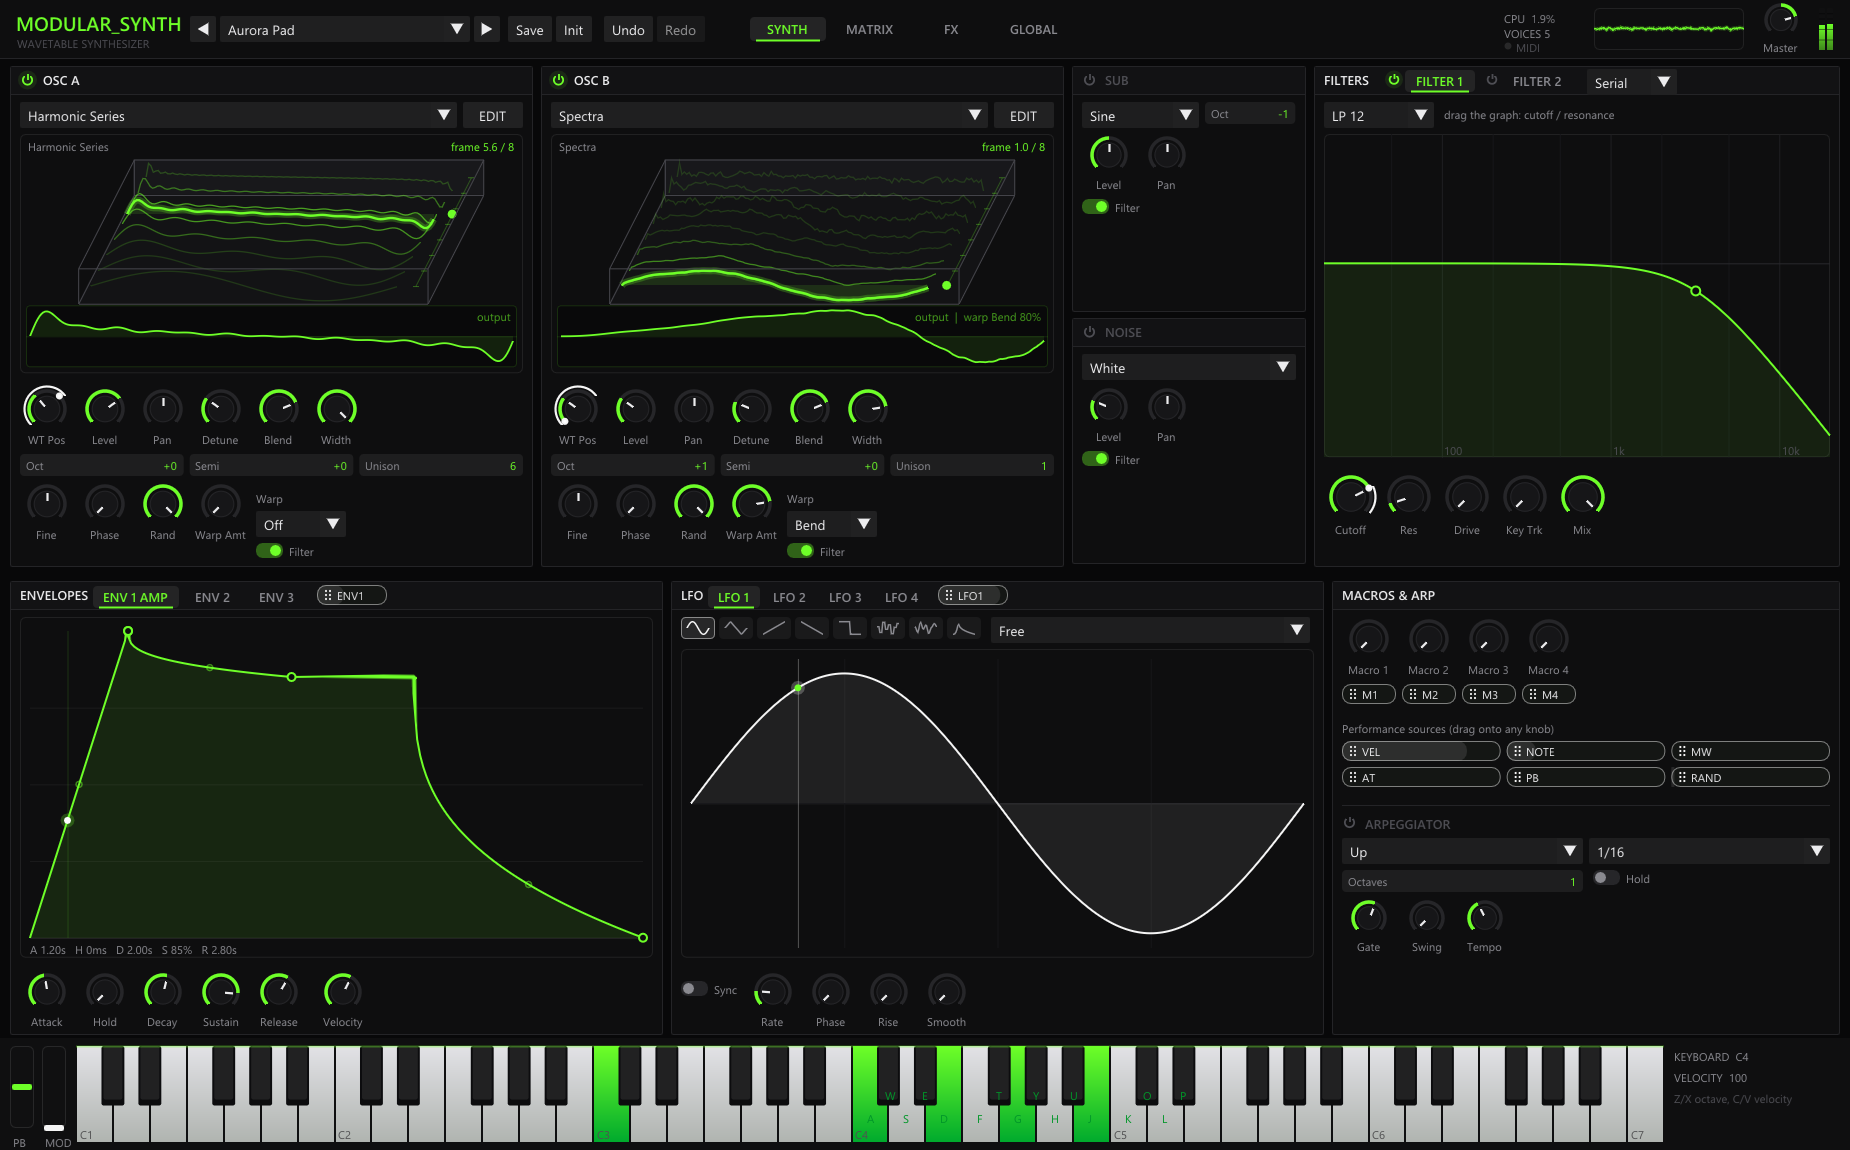
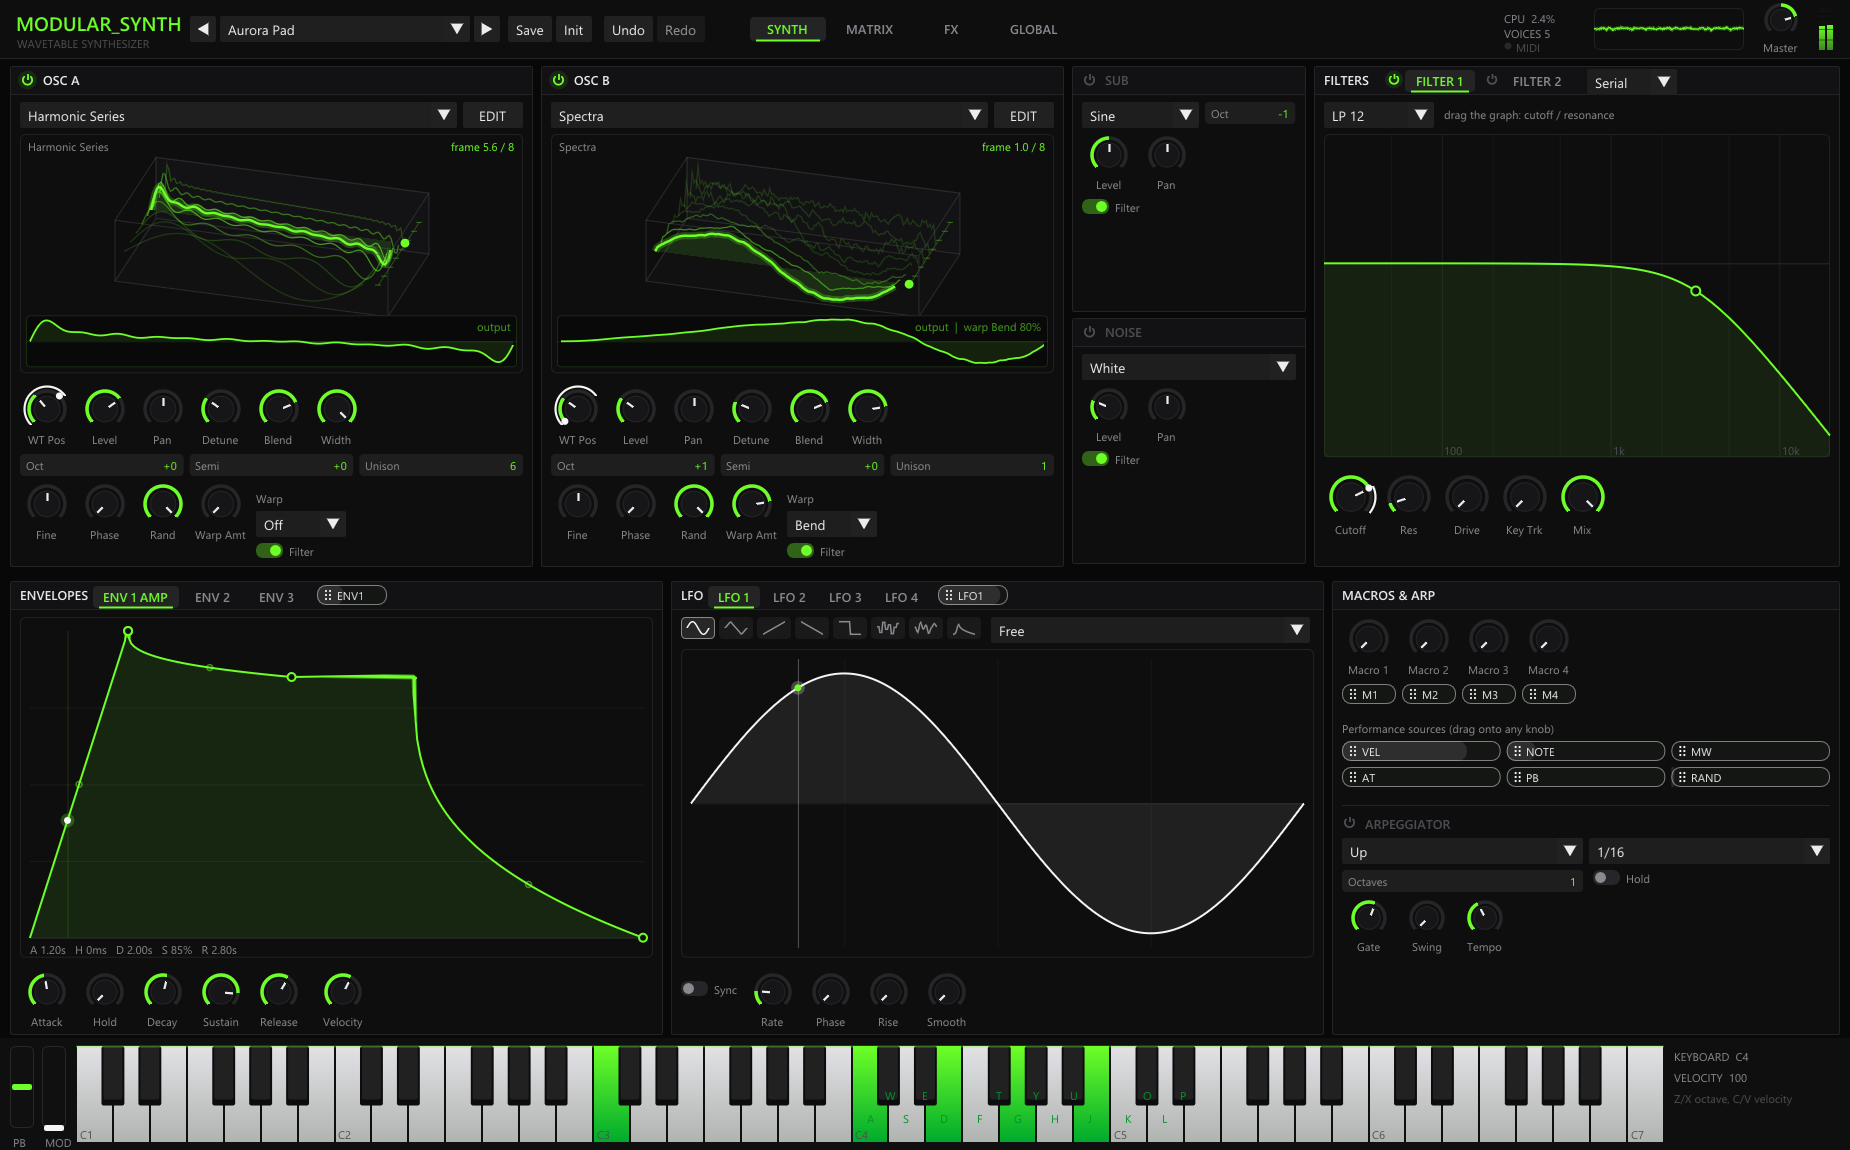
Wavetable view: taller waves, corner-facing angle, half-opacity box
The projection is fitted to the view so the box always fills it; drag
left/right turns the stack, up/down changes the depth.

Changed region(s): [[0.3081, 0.1522, 0.5854, 0.3348], [0.0308, 0.1522, 0.2773, 0.3043]]

diff --git a/app/ui/Views.cpp b/app/ui/Views.cpp
@@ -47,7 +47,8 @@ struct WtCache {
 };
 WtCache gCache[3];
 
-struct WtViewState { float yaw = 0.45f, pitch = 1.1f; bool flat = false; };
+// zx/zy: screen direction of the depth axis; turn: rotation of the waveform axis
+struct WtViewState { float zx = 0.34f, zy = 0.52f, turn = 0.13f; bool flat = false; };
 WtViewState gView[3];
 
 void buildCache(WtCache& c, const WavetableSet* wt)
@@ -100,8 +101,8 @@ void WavetableView(UiState& ui, int osc, ImVec2 size, const WavetableSet* overri
     int vi = overrideTable ? 2 : osc;
     WtViewState& vs = gView[vi];
     if (ImGui::IsItemActive() && ImGui::IsMouseDragging(ImGuiMouseButton_Left, 1.0f)) {
-        vs.yaw = std::clamp(vs.yaw + ImGui::GetIO().MouseDelta.x * 0.008f, -1.4f, 1.4f);
-        vs.pitch = std::clamp(vs.pitch + ImGui::GetIO().MouseDelta.y * 0.006f, 0.25f, 1.35f);
+        vs.turn = std::clamp(vs.turn + ImGui::GetIO().MouseDelta.x * 0.004f, -0.6f, 0.6f);
+        vs.zy = std::clamp(vs.zy + ImGui::GetIO().MouseDelta.y * 0.004f, 0.3f, 1.1f);
     }
     if (ImGui::IsItemHovered() && ImGui::IsMouseDoubleClicked(ImGuiMouseButton_Left)) vs.flat = !vs.flat;
     if (ImGui::IsItemHovered() && !ImGui::IsItemActive() && ImGui::GetCurrentContext()->HoveredIdTimer > 0.8f)
@@ -129,7 +130,7 @@ void WavetableView(UiState& ui, int osc, ImVec2 size, const WavetableSet* overri
                          : ui.s.params.value(amtP);
 
     const float W = size.x;
-    const float stripH = vs.flat ? size.y - 22.0f : std::floor(size.y * 0.26f);
+    const float stripH = vs.flat ? size.y - 22.0f : std::floor(size.y * 0.22f);
     const float stackH = vs.flat ? 0.0f : size.y - stripH - 22.0f;
     const ImU32 green = theme::accent;
 
@@ -145,11 +146,24 @@ void WavetableView(UiState& ui, int osc, ImVec2 size, const WavetableSet* overri
     // ---- 3D stack ----
     if (!vs.flat) {
         const float top = a.y + 20.0f, H = stackH;
-        const float dx = W * 0.22f * (vs.yaw / 1.4f) + W * 0.04f;
-        const float dy = H * 0.86f * (vs.pitch / 1.35f);
-        const float sx = W * 0.36f - std::fabs(dx) * 0.5f, ampY = H * 0.095f;
-        const ImVec2 origin(a.x + W * 0.5f - dx * 0.5f, top + H * 0.5f + dy * 0.5f);
-        auto project = [&](float x, float z, float y) { return ImVec2(origin.x + x * sx + z * dx, origin.y - y * ampY - z * dy); };
+        const float bx0 = -1.08f, bx1 = 1.2f, by0 = -1.2f, by1 = 1.2f;   // box extents
+
+        // Model space: x along the waveform (turned so the front corner faces the
+        // viewer), z into the depth, y = amplitude. Scale and offset are fitted so
+        // the whole box always fills the area.
+        const float amp = 0.21f;
+        const ImVec2 X(std::cos(vs.turn), std::sin(vs.turn)), Z(vs.zx, -vs.zy);
+        auto model = [&](float x, float z, float y) { return ImVec2(x * X.x + z * Z.x, x * X.y + z * Z.y - y * amp); };
+        float mnx = 1e9f, mny = 1e9f, mxx = -1e9f, mxy = -1e9f;
+        for (float x : { bx0, bx1 }) for (float z : { 0.0f, 1.0f }) for (float y : { by0, by1 }) {
+            ImVec2 m = model(x, z, y);
+            mnx = std::min(mnx, m.x); mxx = std::max(mxx, m.x);
+            mny = std::min(mny, m.y); mxy = std::max(mxy, m.y);
+        }
+        const float availW = W - 24.0f, availH = H - 6.0f;
+        const float scale = std::min(availW / (mxx - mnx), availH / (mxy - mny));
+        const ImVec2 origin(a.x + W * 0.5f - (mnx + mxx) * 0.5f * scale, top + H * 0.5f - (mny + mxy) * 0.5f * scale);
+        auto project = [&](float x, float z, float y) { ImVec2 m = model(x, z, y); return ImVec2(origin.x + m.x * scale, origin.y + m.y * scale); };
 
         ImVec2 pts[PTS];
         auto framePts = [&](const float* data, float z) {
@@ -157,10 +171,9 @@ void WavetableView(UiState& ui, int osc, ImVec2 size, const WavetableSet* overri
         };
 
         // grey box around the stack: back wall and floor filled, edges outlined
-        const float bx0 = -1.08f, bx1 = 1.2f, by0 = -1.2f, by1 = 1.2f;
-        const ImU32 boxFill = theme::rgba(24, 24, 27), boxEdge = theme::rgba(70, 70, 76);
+        const ImU32 boxFill = theme::rgba(24, 24, 27, 128), boxEdge = theme::rgba(70, 70, 76, 128);
         dl->AddQuadFilled(project(bx0, 1.0f, by0), project(bx1, 1.0f, by0), project(bx1, 1.0f, by1), project(bx0, 1.0f, by1), boxFill);
-        dl->AddQuadFilled(project(bx0, 0.0f, by0), project(bx1, 0.0f, by0), project(bx1, 1.0f, by0), project(bx0, 1.0f, by0), theme::rgba(19, 19, 21));
+        dl->AddQuadFilled(project(bx0, 0.0f, by0), project(bx1, 0.0f, by0), project(bx1, 1.0f, by0), project(bx0, 1.0f, by0), theme::rgba(19, 19, 21, 128));
         auto edge = [&](float x0, float z0, float y0, float x1, float z1, float y1) {
             dl->AddLine(project(x0, z0, y0), project(x1, z1, y1), boxEdge, 1.0f);
         };
